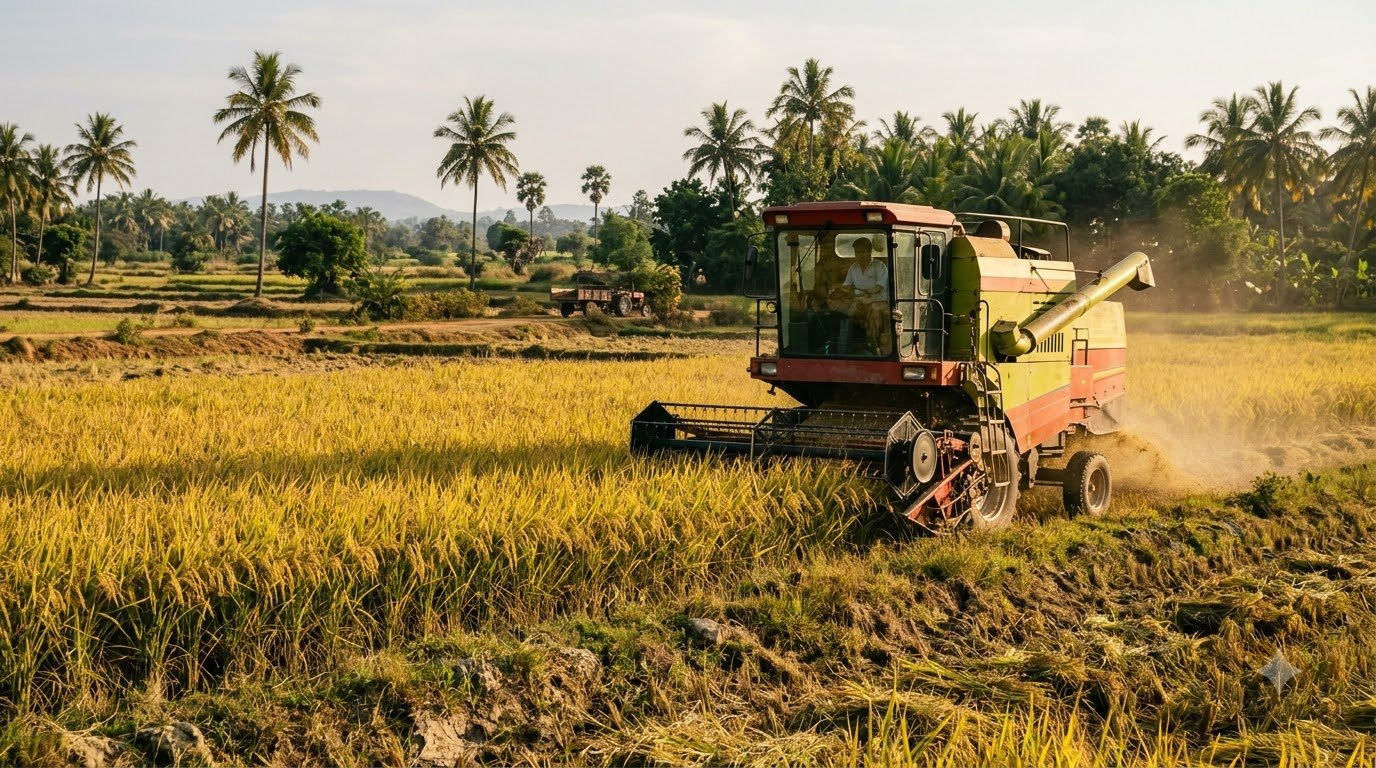
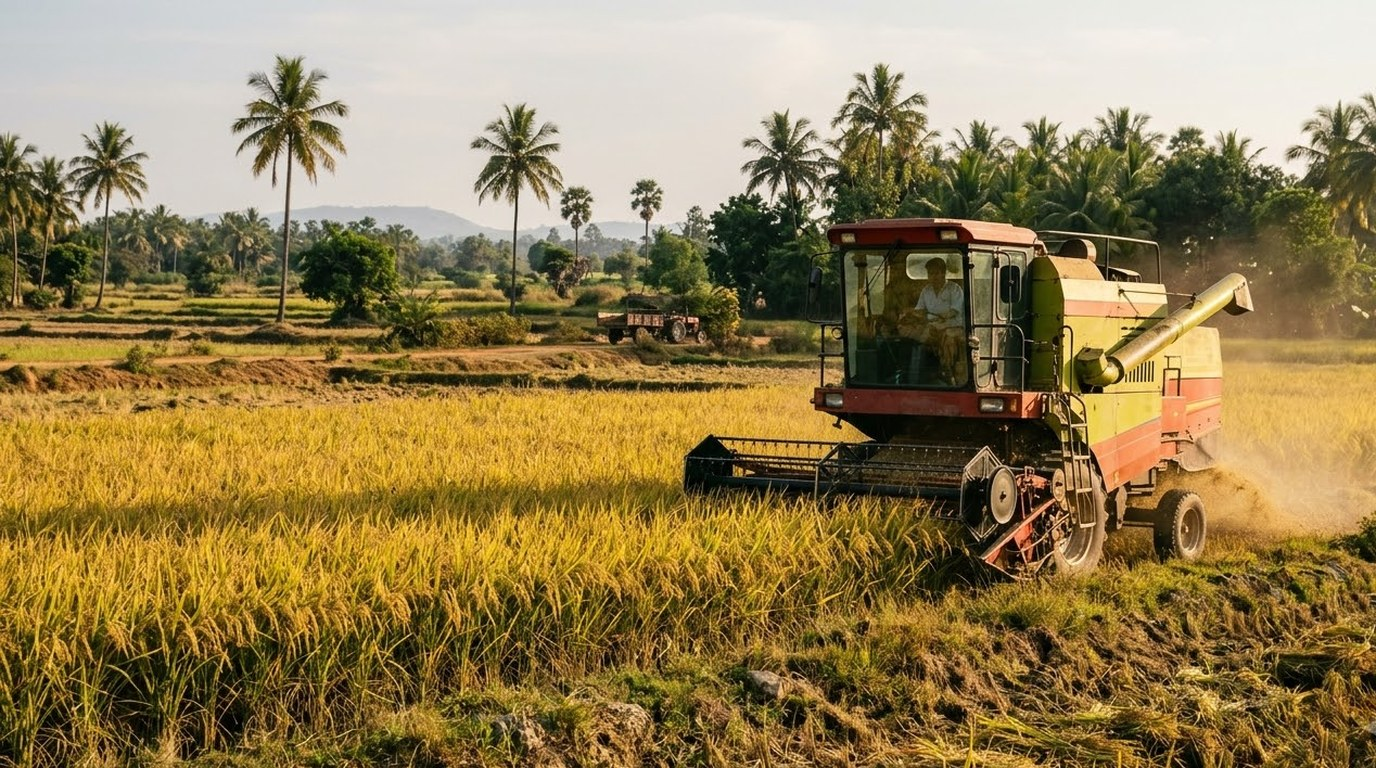
fix(farmer-dashboard): clean watermark-free photography at 100% opacity with subtle non-destructive gradient overlay

diff --git a/src/pages/farmer/FarmerHomePage.tsx b/src/pages/farmer/FarmerHomePage.tsx
@@ -1120,7 +1120,7 @@ export function FarmerHomePage() {
       <div className="grid grid-cols-1 sm:grid-cols-2 lg:grid-cols-4 gap-4">
         {/* 1. Real Available Machines Count from Database - Photographically Art Directed */}
         <div className="group relative rounded-3xl bg-white border border-cream-200 overflow-hidden shadow-soft hover:shadow-lift hover:border-leaf-300 transition-all duration-300 hover:-translate-y-1 animate-stat-card-0 flex flex-col justify-between p-5 min-h-[160px]">
-          {/* Background photograph with responsive positioning & zoom */}
+          {/* Background photograph with 100% opacity, rich contrast, and no watermark */}
           <div
             className="absolute inset-0 z-0 bg-cover bg-no-repeat transition-transform duration-700 ease-out group-hover:scale-[1.04] pointer-events-none"
             style={{
@@ -1129,31 +1129,27 @@ export function FarmerHomePage() {
             }}
             aria-hidden="true"
           />
-          {/* Subtle white-to-transparent & light forest green gradient overlay for perfect readability */}
+          {/* Subtle minimal gradient overlay (15-20%) specifically under text for readability while preserving rich photo details */}
           <div
-            className="absolute inset-0 z-0 bg-gradient-to-r from-white/92 via-white/80 to-white/40 group-hover:via-white/75 transition-colors duration-300 pointer-events-none"
-            aria-hidden="true"
-          />
-          <div
-            className="absolute inset-0 z-0 bg-leaf-900/10 mix-blend-multiply pointer-events-none"
+            className="absolute inset-0 z-0 bg-gradient-to-r from-white/80 via-white/45 to-transparent pointer-events-none"
             aria-hidden="true"
           />
 
           {/* Card Content */}
-          <div className="relative z-10 size-10 rounded-2xl bg-white/90 backdrop-blur-xs border border-leaf-200/80 flex items-center justify-center text-leaf-700 mb-3 shadow-2xs group-hover:bg-leaf-50 group-hover:border-leaf-300 transition-colors duration-200">
+          <div className="relative z-10 size-10 rounded-2xl bg-white/95 backdrop-blur-xs border border-leaf-200/80 flex items-center justify-center text-leaf-700 mb-3 shadow-xs group-hover:bg-leaf-50 group-hover:border-leaf-300 transition-colors duration-200">
             <Tractor className="size-5" />
           </div>
           <div className="relative z-10">
-            <div className="font-display text-2xl sm:text-3xl font-extrabold text-ink tracking-tight drop-shadow-[0_1px_1px_rgba(255,255,255,0.8)]">
+            <div className="font-display text-2xl sm:text-3xl font-extrabold text-ink tracking-tight drop-shadow-[0_1px_2px_rgba(255,255,255,0.9)]">
               {platformStats !== null ? platformStats.available_machines : '—'}
             </div>
-            <div className="text-xs font-semibold text-ink-soft mt-0.5 drop-shadow-[0_1px_1px_rgba(255,255,255,0.7)]">{t('ui.machinesAvailable')}</div>
+            <div className="text-xs font-bold text-ink mt-0.5 drop-shadow-[0_1px_2px_rgba(255,255,255,0.9)]">{t('ui.machinesAvailable')}</div>
           </div>
         </div>
 
         {/* 2. Real Registered Farmers / Users Count from Database - Photographically Art Directed */}
         <div className="group relative rounded-3xl bg-white border border-cream-200 overflow-hidden shadow-soft hover:shadow-lift hover:border-leaf-300 transition-all duration-300 hover:-translate-y-1 animate-stat-card-1 flex flex-col justify-between p-5 min-h-[160px]">
-          {/* Background photograph with responsive positioning preserving both farmers' faces */}
+          {/* Background photograph preserving farmers' faces, rich natural skin tones, and green fields */}
           <div
             className="absolute inset-0 z-0 bg-cover bg-no-repeat transition-transform duration-700 ease-out group-hover:scale-[1.04] pointer-events-none"
             style={{
@@ -1162,31 +1158,27 @@ export function FarmerHomePage() {
             }}
             aria-hidden="true"
           />
-          {/* Soft white-green gradient overlay preserving natural skin tones */}
+          {/* Subtle minimal gradient overlay (15-20%) under text for readability */}
           <div
-            className="absolute inset-0 z-0 bg-gradient-to-r from-white/92 via-white/78 to-white/35 group-hover:via-white/72 transition-colors duration-300 pointer-events-none"
-            aria-hidden="true"
-          />
-          <div
-            className="absolute inset-0 z-0 bg-leaf-800/8 mix-blend-multiply pointer-events-none"
+            className="absolute inset-0 z-0 bg-gradient-to-r from-white/80 via-white/45 to-transparent pointer-events-none"
             aria-hidden="true"
           />
 
           {/* Card Content */}
-          <div className="relative z-10 size-10 rounded-2xl bg-white/90 backdrop-blur-xs border border-leaf-200/80 flex items-center justify-center text-leaf-700 mb-3 shadow-2xs group-hover:bg-leaf-50 group-hover:border-leaf-300 transition-colors duration-200">
+          <div className="relative z-10 size-10 rounded-2xl bg-white/95 backdrop-blur-xs border border-leaf-200/80 flex items-center justify-center text-leaf-700 mb-3 shadow-xs group-hover:bg-leaf-50 group-hover:border-leaf-300 transition-colors duration-200">
             <Users className="size-5" />
           </div>
           <div className="relative z-10">
-            <div className="font-display text-2xl sm:text-3xl font-extrabold text-ink tracking-tight drop-shadow-[0_1px_1px_rgba(255,255,255,0.8)]">
+            <div className="font-display text-2xl sm:text-3xl font-extrabold text-ink tracking-tight drop-shadow-[0_1px_2px_rgba(255,255,255,0.9)]">
               {platformStats !== null ? (platformStats.total_farmers || platformStats.total_users) : '—'}
             </div>
-            <div className="text-xs font-semibold text-ink-soft mt-0.5 drop-shadow-[0_1px_1px_rgba(255,255,255,0.7)]">{t('ui.happyFarmers')}</div>
+            <div className="text-xs font-bold text-ink mt-0.5 drop-shadow-[0_1px_2px_rgba(255,255,255,0.9)]">{t('ui.happyFarmers')}</div>
           </div>
         </div>
 
         {/* 3. Confirmed Bookings / Trusted Platform - Photographically Art Directed */}
         <div className="group relative rounded-3xl bg-white border border-cream-200 overflow-hidden shadow-soft hover:shadow-lift hover:border-leaf-300 transition-all duration-300 hover:-translate-y-1 animate-stat-card-2 flex flex-col justify-between p-5 min-h-[160px]">
-          {/* Background photograph with authentic farmer & machine owner shaking hands beside modern harvester */}
+          {/* Background photograph with authentic farmer & machine owner shaking hands beside harvester */}
           <div
             className="absolute inset-0 z-0 bg-cover bg-no-repeat transition-transform duration-700 ease-out group-hover:scale-[1.04] pointer-events-none"
             style={{
@@ -1195,25 +1187,21 @@ export function FarmerHomePage() {
             }}
             aria-hidden="true"
           />
-          {/* Subtle white-to-transparent gradient and very light forest-green tint preserving natural tones & handshake */}
+          {/* Subtle minimal gradient overlay preserving vibrant golden hour and crisp handshake */}
           <div
-            className="absolute inset-0 z-0 bg-gradient-to-r from-white/92 via-white/78 to-white/35 group-hover:via-white/72 transition-colors duration-300 pointer-events-none"
-            aria-hidden="true"
-          />
-          <div
-            className="absolute inset-0 z-0 bg-leaf-900/8 mix-blend-multiply pointer-events-none"
+            className="absolute inset-0 z-0 bg-gradient-to-r from-white/80 via-white/45 to-transparent pointer-events-none"
             aria-hidden="true"
           />
 
           {/* Card Content */}
-          <div className="relative z-10 size-10 rounded-2xl bg-white/90 backdrop-blur-xs border border-harvest-200/80 flex items-center justify-center text-harvest-700 mb-3 shadow-2xs group-hover:bg-harvest-50 group-hover:border-harvest-300 transition-colors duration-200">
+          <div className="relative z-10 size-10 rounded-2xl bg-white/95 backdrop-blur-xs border border-harvest-200/80 flex items-center justify-center text-harvest-700 mb-3 shadow-xs group-hover:bg-harvest-50 group-hover:border-harvest-300 transition-colors duration-200">
             <ShieldCheck className="size-5" />
           </div>
           <div className="relative z-10">
-            <div className="font-display text-2xl sm:text-3xl font-extrabold text-ink tracking-tight drop-shadow-[0_1px_1px_rgba(255,255,255,0.8)]">
+            <div className="font-display text-2xl sm:text-3xl font-extrabold text-ink tracking-tight drop-shadow-[0_1px_2px_rgba(255,255,255,0.9)]">
               {platformStats !== null ? platformStats.confirmed_bookings : '—'}
             </div>
-            <div className="text-xs font-semibold text-ink-soft mt-0.5 drop-shadow-[0_1px_1px_rgba(255,255,255,0.7)]">{t('ui.confirmedBookings')}</div>
+            <div className="text-xs font-bold text-ink mt-0.5 drop-shadow-[0_1px_2px_rgba(255,255,255,0.9)]">{t('ui.confirmedBookings')}</div>
           </div>
         </div>
 
